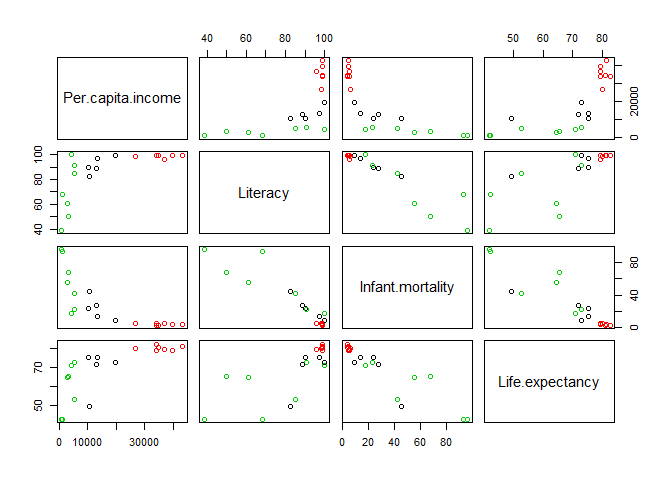
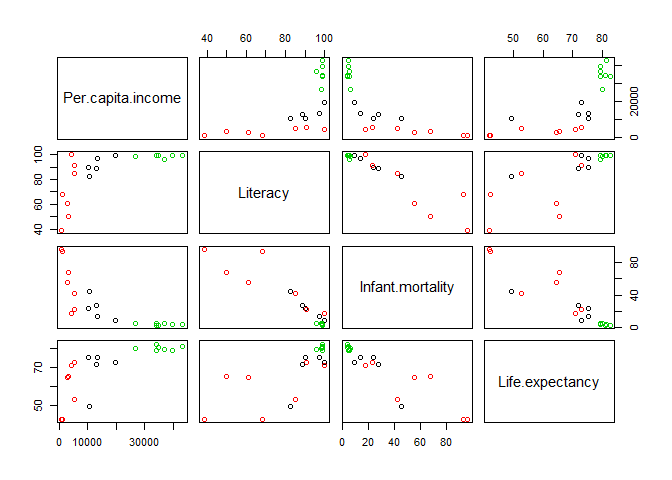
Final demo files

diff --git a/k-means-demo.html b/k-means-demo.html
@@ -130,9 +130,22 @@ $(document).ready(function () {
 <pre class="r"><code># import data (assume that all data in &quot;data.txt&quot; is stored as comma separated values)
 x &lt;- read.csv(&quot;data.txt&quot;, header=TRUE, row.names=1)
 
-# run K-Means
+# show first 10 rows
+head(x, n=10)</code></pre>
+<pre><code>##                Per.capita.income Literacy Infant.mortality Life.expectancy
+## Brazil                     10326     90.0            23.60            75.4
+## Germany                    39650     99.0             4.08            79.4
+## Mozambique                   830     38.7            95.90            42.1
+## Australia                  43163     99.0             4.57            81.2
+## China                       5300     90.9            23.00            73.0
+## Argentina                  13308     97.2            13.40            75.3
+## United Kingdom             34105     99.0             5.01            79.4
+## South Africa               10600     82.4            44.80            49.3
+## Zambia                      1000     68.0            92.70            42.4
+## Namibia                     5249     85.0            42.30            52.9</code></pre>
+<pre class="r"><code># run K-Means
 km &lt;- kmeans(x, 3, 15)
- 
+
 # print components of km
 print(km)</code></pre>
 <pre><code>## K-means clustering with 3 clusters of sizes 5, 7, 7
@@ -140,21 +153,21 @@ print(km)</code></pre>
 ## Cluster means:
 ##   Per.capita.income Literacy Infant.mortality Life.expectancy
 ## 1         13370.400    91.58        23.560000        68.96000
-## 2         35642.143    98.50         4.477143        80.42857
-## 3          3267.286    70.50        56.251429        58.80000
+## 2          3267.286    70.50        56.251429        58.80000
+## 3         35642.143    98.50         4.477143        80.42857
 ## 
 ## Clustering vector:
 ##         Brazil        Germany     Mozambique      Australia          China 
-##              1              2              3              2              3 
+##              1              3              2              3              2 
 ##      Argentina United Kingdom   South Africa         Zambia        Namibia 
-##              1              2              1              3              3 
+##              1              3              1              2              2 
 ##        Georgia       Pakistan          India         Turkey         Sweden 
-##              3              3              3              1              2 
+##              2              2              2              1              3 
 ##      Lithuania         Greece          Italy          Japan 
-##              1              2              2              2 
+##              1              3              3              3 
 ## 
 ## Within cluster sum of squares by cluster:
-## [1]  57626083 158883600  20109876
+## [1]  57626083  20109876 158883600
 ##  (between_SS / total_SS =  94.1 %)
 ## 
 ## Available components:
@@ -164,9 +177,10 @@ print(km)</code></pre>
 ## [9] &quot;ifault&quot;</code></pre>
 <pre class="r"><code># plot clusters
 plot(x, col = km$cluster)
+
 # plot centers
 points(km$centers, col = 1:2, pch = 8)</code></pre>
[2 lines of base64/hex data omitted]
 </div>
 
 

diff --git a/k-means-demo.md b/k-means-demo.md
@@ -14,9 +14,28 @@ I copied the given data off the web page and created a CSV file entitled 'data.t
 # import data (assume that all data in "data.txt" is stored as comma separated values)
 x <- read.csv("data.txt", header=TRUE, row.names=1)
 
+# show first 10 rows
+head(x, n=10)
+```
+
+```
+##                Per.capita.income Literacy Infant.mortality Life.expectancy
+## Brazil                     10326     90.0            23.60            75.4
+## Germany                    39650     99.0             4.08            79.4
+## Mozambique                   830     38.7            95.90            42.1
+## Australia                  43163     99.0             4.57            81.2
+## China                       5300     90.9            23.00            73.0
+## Argentina                  13308     97.2            13.40            75.3
+## United Kingdom             34105     99.0             5.01            79.4
+## South Africa               10600     82.4            44.80            49.3
+## Zambia                      1000     68.0            92.70            42.4
+## Namibia                     5249     85.0            42.30            52.9
+```
+
+```r
 # run K-Means
 km <- kmeans(x, 3, 15)
- 
+
 # print components of km
 print(km)
 ```
@@ -27,21 +46,21 @@ print(km)
 ## Cluster means:
 ##   Per.capita.income Literacy Infant.mortality Life.expectancy
 ## 1         13370.400    91.58        23.560000        68.96000
-## 2         35642.143    98.50         4.477143        80.42857
-## 3          3267.286    70.50        56.251429        58.80000
+## 2          3267.286    70.50        56.251429        58.80000
+## 3         35642.143    98.50         4.477143        80.42857
 ## 
 ## Clustering vector:
 ##         Brazil        Germany     Mozambique      Australia          China 
-##              1              2              3              2              3 
+##              1              3              2              3              2 
 ##      Argentina United Kingdom   South Africa         Zambia        Namibia 
-##              1              2              1              3              3 
+##              1              3              1              2              2 
 ##        Georgia       Pakistan          India         Turkey         Sweden 
-##              3              3              3              1              2 
+##              2              2              2              1              3 
 ##      Lithuania         Greece          Italy          Japan 
-##              1              2              2              2 
+##              1              3              3              3 
 ## 
 ## Within cluster sum of squares by cluster:
-## [1]  57626083 158883600  20109876
+## [1]  57626083  20109876 158883600
 ##  (between_SS / total_SS =  94.1 %)
 ## 
 ## Available components:
@@ -54,6 +73,7 @@ print(km)
 ```r
 # plot clusters
 plot(x, col = km$cluster)
+
 # plot centers
 points(km$centers, col = 1:2, pch = 8)
 ```
